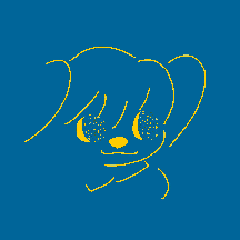
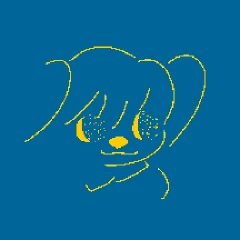
Mini Tobokegao: only pixel art of 120px or less stays hard; 160-216px drawings are fitted smooth with 2x/3x
Claude-Session: https://claude.ai/code/session_01NYKkFWruB2TFpnnyGN2xED

Changed region(s): [[0.0875, 0.175, 0.875, 0.8167], [0.6417, 0.7, 0.7292, 0.8458]]

diff --git a/scripts/minitobo_art.py b/scripts/minitobo_art.py
@@ -65,7 +65,8 @@ def plan(w: int, h: int) -> tuple[int, int, bool]:
         k = BOX // n
         return w * k, h * k, True
     s = BOX / n
-    return max(1, round(w * s)), max(1, round(h * s)), n <= BOX
+    # 121 px and up: fitted to the box and drawn smooth (as 1:1 hard dots they looked coarse on phones)
+    return max(1, round(w * s)), max(1, round(h * s)), False
 
 
 def scales(nw: int, nh: int, w: int, h: int, hard: bool) -> list[tuple[int, int, str]]:

diff --git a/docs/decisions/0032-mini-tobokegao.md b/docs/decisions/0032-mini-tobokegao.md
@@ -2,7 +2,7 @@
 
 - **日付**: 2026-10-19
 - **決めたこと**: メモのいちばん上のページに「ミニとぼけがお」を置く。訪れた人が言葉を入れると、メモの検索（Pagefind）で合うポストを探し、とぼけがおの返信の書きぶり（出だしの言葉、「…！」、うしろのかっこ）の決まった言い回しで、そのポストを紹介する（`assets/js/notes.js`の`initMini`）。
-  - 絵は、とぼけがおが選んだ「diary」のドット絵148点から、表示のたびにランダムに出す。元の絵は`data/minitobo.json`に並べ、`scripts/minitobo_art.py`で240pxの枠に合わせたWebPにする（小さなドット絵は整数倍に拡大して可逆圧縮、1ドットずつ描いた大きな絵は縮小し、細かい画面向けに2倍・3倍まで（元の大きさが足りなければそこまで）の版も作る。GIFは動くWebPと、動きを減らす設定の人向けの止まった1コマ目）。拡大がいる絵（320pxほどのドット絵を拡大して投稿したものなど）は、Scale2xで大きくしてから縮め、ななめの線の段差をなめらかにする（色は増やさない）。縮めた絵は、ドットをくっきり保つ表示（pixelated）にしない。スマホで240pxを引き伸ばすと粗く見えたため（2026-10-19）。
+  - 絵は、とぼけがおが選んだ「diary」のドット絵148点から、表示のたびにランダムに出す。元の絵は`data/minitobo.json`に並べ、`scripts/minitobo_art.py`で240pxの枠に合わせたWebPにする（元が120px以下の小さなドット絵だけを整数倍に拡大して可逆圧縮し、くっきり見せる。1ドットずつ描いた大きな絵は縮小し、細かい画面向けに2倍・3倍まで（元の大きさが足りなければそこまで）の版も作る。GIFは動くWebPと、動きを減らす設定の人向けの止まった1コマ目）。拡大がいる絵（320pxほどのドット絵を拡大して投稿したものなど）は、Scale2xで大きくしてから縮め、ななめの線の段差をなめらかにする（色は増やさない）。縮めた絵は、ドットをくっきり保つ表示（pixelated）にしない。スマホで240pxを引き伸ばすと粗く見えたため（2026-10-19）。
   - 答えたポストの絵は、組み立てのときに作る月ごとの絵の一覧（`/memo/m/`、自分のポストは1か月で大きくても約20KB）から出す。ポストのある月や話題のページを丸ごと読むと、数MBあって遅かった。
   - 「メモの中から自動で選んで答える。とぼけがお本人の返事ではない」と、すぐ下に書く。
 - **理由**:
